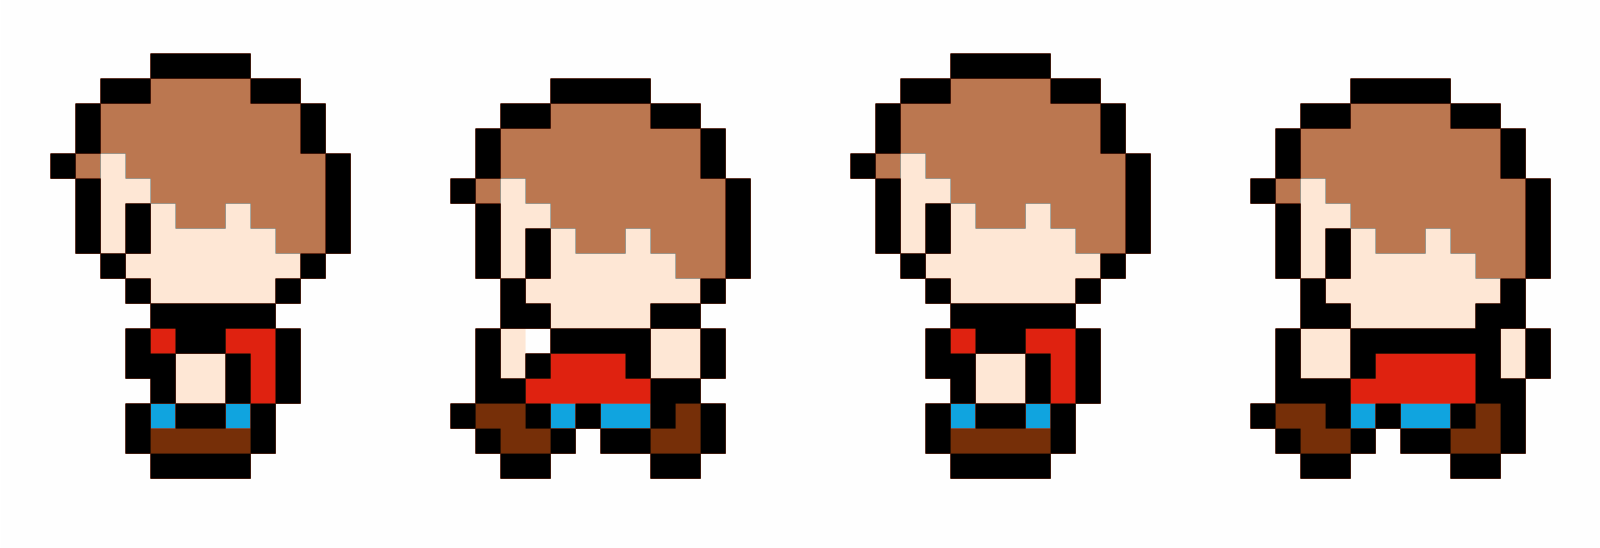
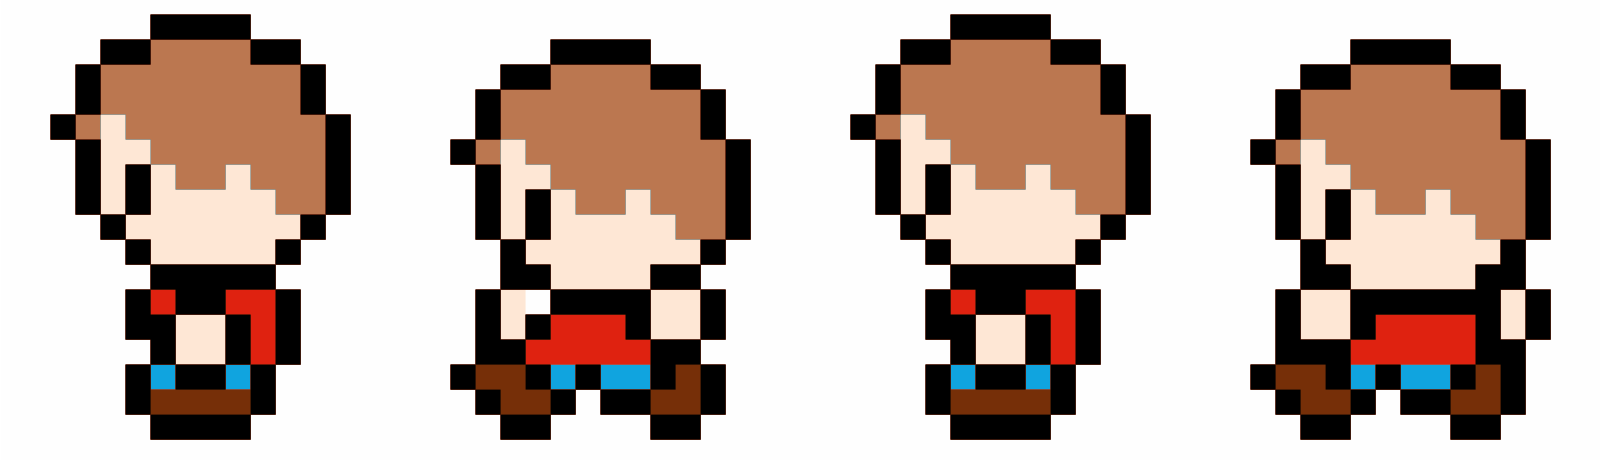
New character left to right movement

diff --git a/characterlefttoright.js b/characterlefttoright.js
@@ -1,0 +1,40 @@
+class CharacterLeftToRight {
+    constructor(game) {
+        this.game = game;
+        this.animator = new Animator(ASSET_MANAGER.getAsset("./character_right.png"), 30, 0, 380, 648, 4, 0.2);
+        this.ar = new Animator(ASSET_MANAGER.getAsset("./character_right.png"), 30, 0, 380, 460, 4, 0.2);
+        this.al = new Animator(ASSET_MANAGER.getAsset("./character_left.png"), 30, 0, 380, 460, 4, 0.2);
+        this.x = 0;
+        this.animatortype = 0;
+        this.y = 275;
+        this.speed = 100;
+    };
+
+    update() {
+        // go right
+        if (this.x === 0 || this.animatortype === 0) {
+            this.x += this.speed*this.game.clockTick;
+        }
+
+        // set animator to go left
+        if (this.x > 1024 / 3) {
+            this.animator = this.al;
+            this.animatortype = 1;
+        }
+
+        // if animator is left then go left
+        if (this.animatortype === 1) {
+            this.x -= this.speed*this.game.clockTick;
+        }
+
+        // set animator to go right
+        if (this.x < 0) {
+            this.animatortype = 0;
+            this.animator = this.ar;
+        }
+    };
+
+    draw(ctx) {
+        this.animator.drawFrame(this.game.clockTick, ctx, this.x, this.y);
+    };
+}

diff --git a/characterleft.js b/characterleft.js
@@ -1,17 +1,15 @@
 class CharacterLeft {
     constructor(game) {
         this.game = game;
-        this.animator = new Animator(ASSET_MANAGER.getAsset("./character_left.png"), 30, 0, 380, 648, 4, 0.2);
+        this.animator = new Animator(ASSET_MANAGER.getAsset("./character_left.png"), 30, 0, 380, 460, 4, 0.2);
 
-        //this.x = 835;
         this.x = 1028 / 3;
-        this.y = 500;
+        this.y = 1028-485;
         this.speed = 100;
     };
 
     update() {
         this.x -= this.speed*this.game.clockTick;
-        //if (this.x < -270) this.x = 1000;
         if (this.x < -270) this.x = 1028 / 3;
     };
 

diff --git a/characterright.js b/characterright.js
@@ -1,9 +1,9 @@
 class CharacterRight {
     constructor(game) {
         this.game = game;
-        this.animator = new Animator(ASSET_MANAGER.getAsset("./character_right.png"), 30, 0, 380, 648, 4, 0.2);
+        this.animator = new Animator(ASSET_MANAGER.getAsset("./character_right.png"), 30, 0, 380, 460, 4, 0.2);
 
-        this.x = 1024 / 3;
+        this.x = 0;
         this.y = 0;
         this.speed = 100;
     };

diff --git a/index.html b/index.html
@@ -14,6 +14,7 @@
     <script type="text/javascript" src="./characterleft.js"></script>
     <script type="text/javascript" src="./characterdown.js"></script>
     <script type="text/javascript" src="./characterup.js"></script>
+    <script type="text/javascript" src="./characterlefttoright.js"></script>
     <script type="text/javascript" src="./main.js"></script>
 </head>
 <body>

diff --git a/main.js b/main.js
@@ -15,6 +15,7 @@ ASSET_MANAGER.downloadAll(() => {
 	gameEngine.addEntity(new CharacterLeft(gameEngine));
 	gameEngine.addEntity(new CharacterDown(gameEngine));
 	gameEngine.addEntity(new CharacterUp(gameEngine));
+	gameEngine.addEntity(new CharacterLeftToRight(gameEngine));
 
 	gameEngine.init(ctx);
 
